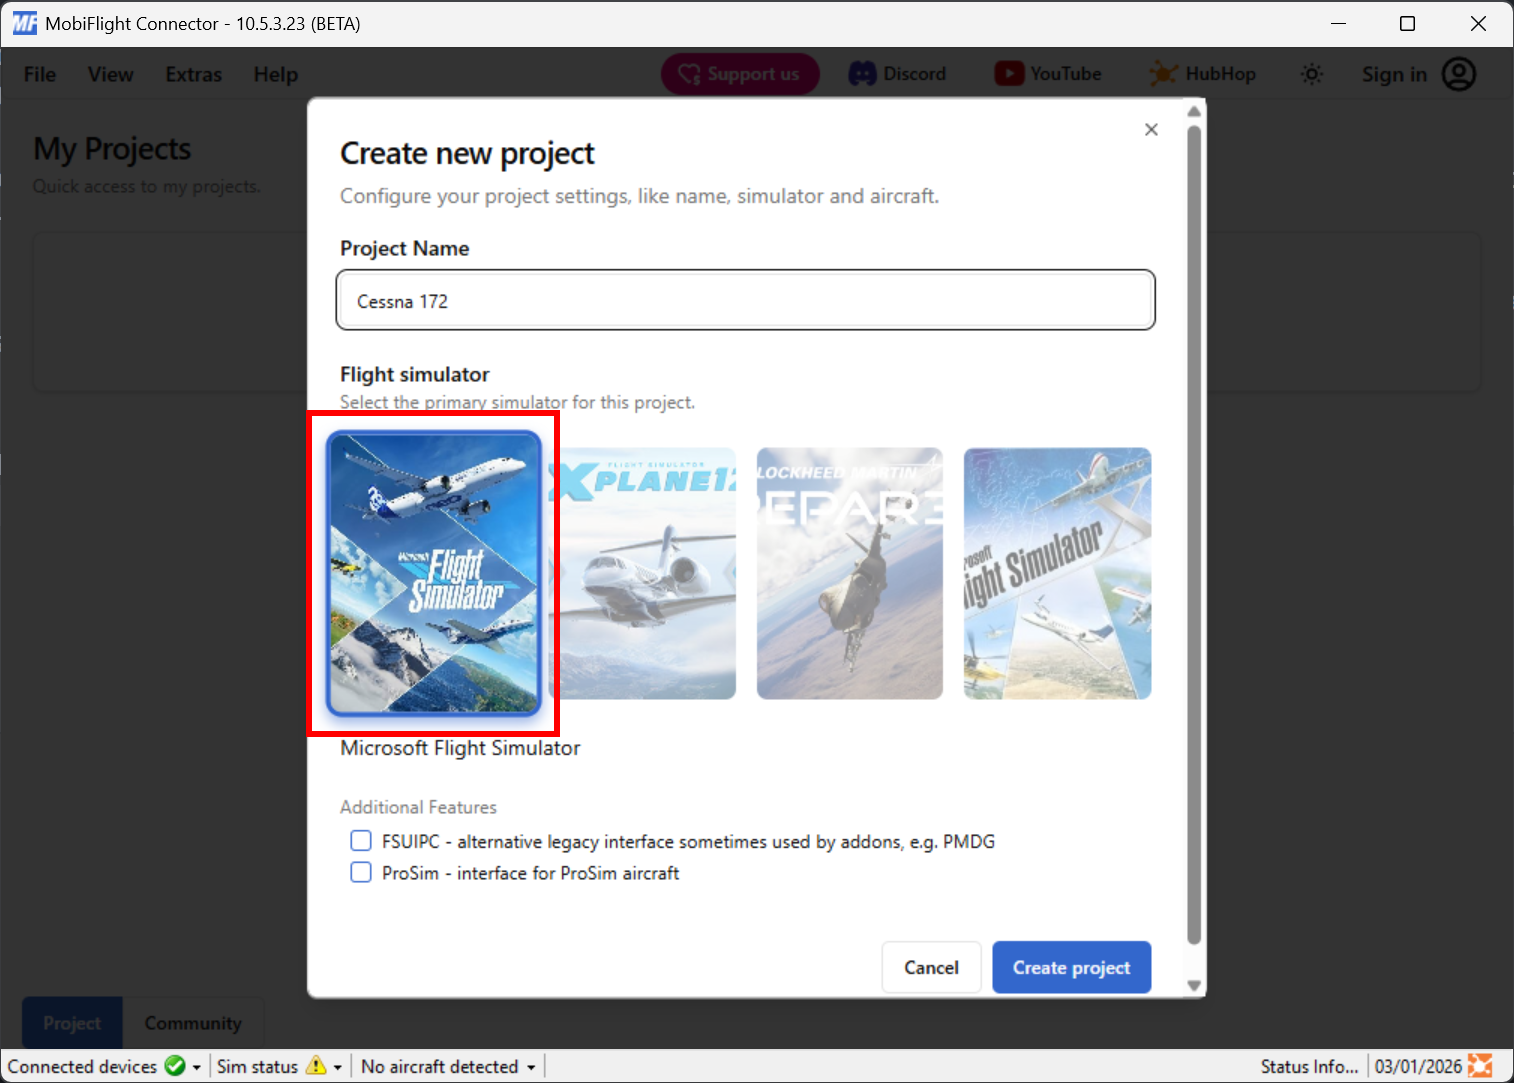
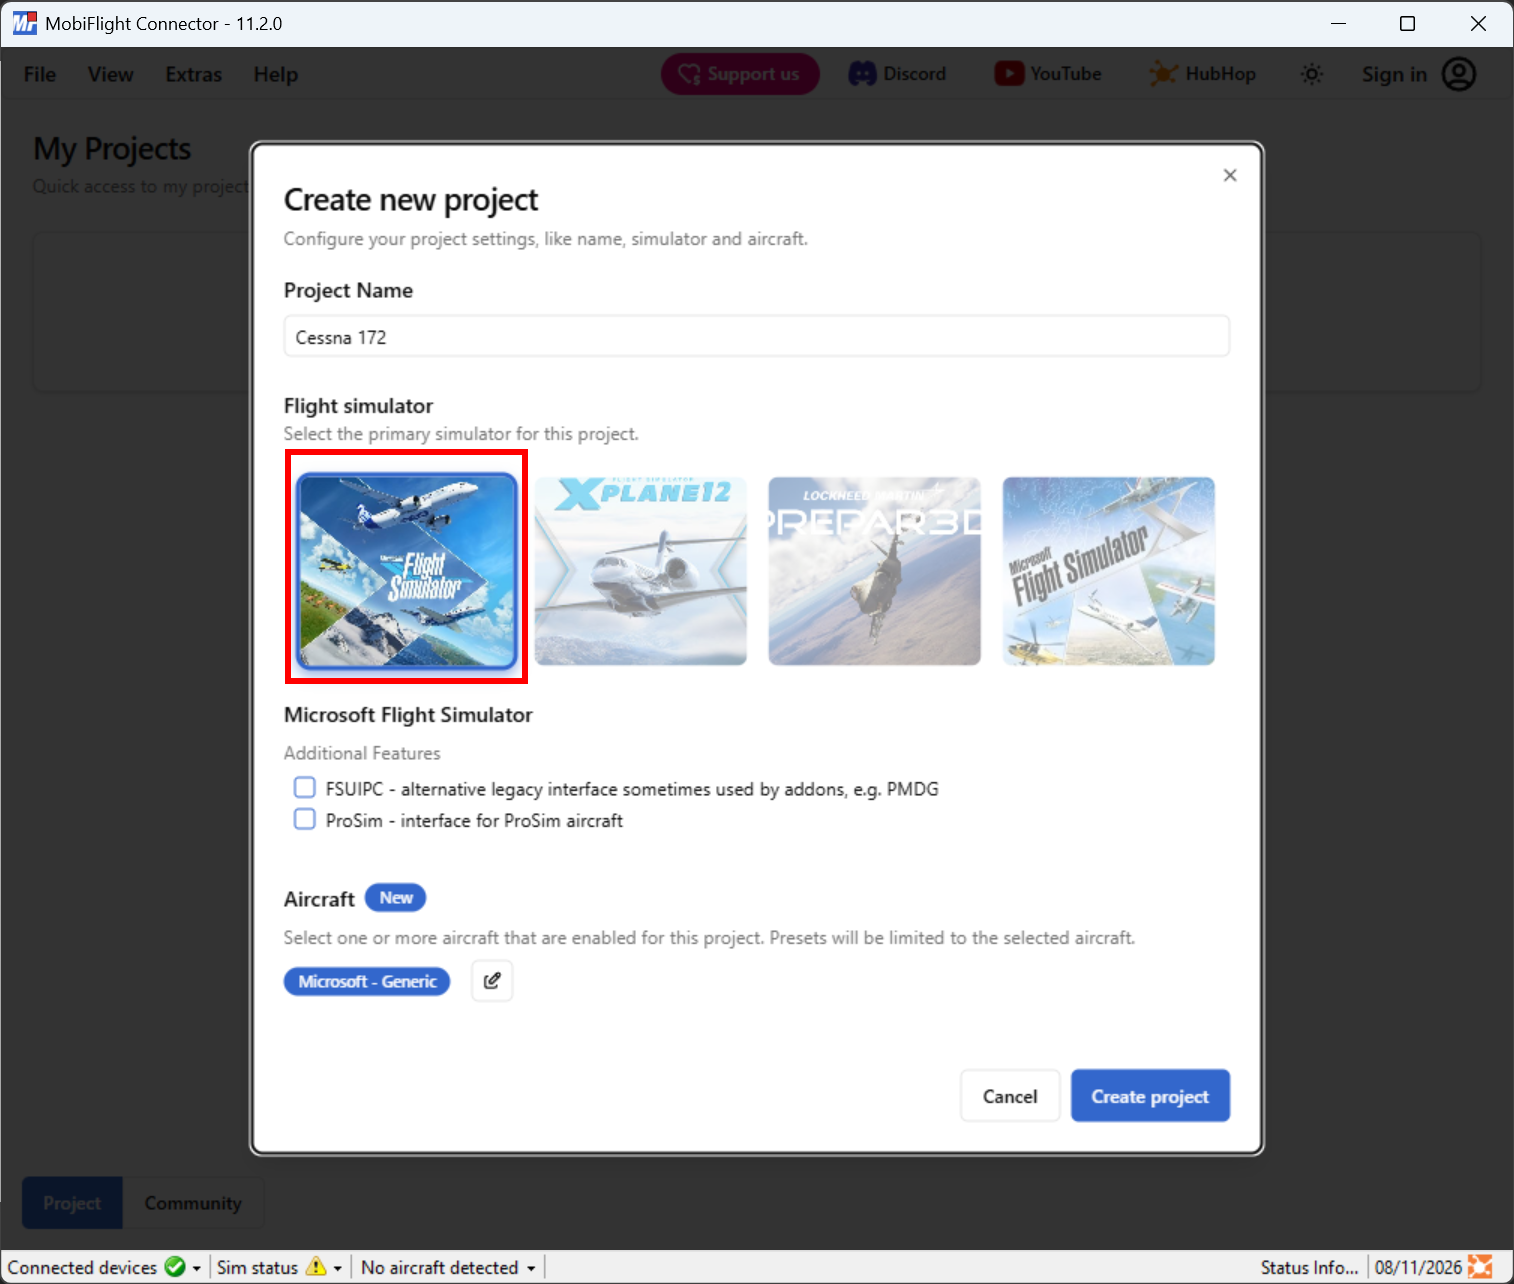
Update project settings docs for new UI (#553)
* Update projects settings with new ui

* Project new UI

diff --git a/content/features/projects/index.md b/content/features/projects/index.md
@@ -30,6 +30,20 @@ Optionally, enable additional features. For Microsoft Flight Simulator projects 
 > [!TIP]
 > The FSUIPC option is only required for profiles targeting PMDG aircraft.
 
+### Specify the aircraft type
+
+MobiFlight filters the available simulator events in input and output configs by the aircraft specified in the project. By default only `Microsoft Generic` events are displayed. To add additional aircraft to the event list click the edit button.
+
+{{< screenshot image="edit-aircraft.png" title="Screenshot of the new project dialog with aircraft edit button highlighted." >}}
+
+Then, use the aircraft pane to filter for the aircraft.
+
+{{< screenshot image="filter-aircraft.png" title="Screenshot of the aircraft pane with the list filtered by Cessna 172." >}}
+
+Finally, select the appropriate aircraft then click **Go Back**.
+
+{{< screenshot image="select-aircraft.png" title="Screenshot of the aircraft pane with Cessna 172 selected." >}}
+
 ### Create the project
 
 Click the **Create project** button to create the project and open the project editor.
@@ -52,7 +66,7 @@ Give the project file a name in a meaningful location, such as a **MobiFlight Pr
 
 {{% steps %}}
 
-### Open the profile in MobiFlight
+### Open the project in MobiFlight
 
 In MobiFlight, go to the **File** menu and select **Open...**.
 
@@ -106,3 +120,22 @@ To remove a project from the recent projects list, click the trash can icon.
 
 > [!TIP]
 > This only removes the project from the recent projects list. It does not delete the project from your computer.
+
+## Editing project settings
+
+To edit the settings on an existing project, for example to change the aircraft in the project, click the **...** menu next to the project name and select **Settings**.
+
+{{< screenshot image="project-settings-menu.png" title="Screenshot of the MobiFlight main window with the project menu opened and the Settings item highlighted." >}}
+
+## Renaming a project
+
+To rename a project, click the **...** menu next to the project name and select **Rename**.
+
+{{< screenshot image="project-rename-menu.png" title="Screenshot of the MobiFlight main window with the project menu opened and the Rename item highlighted." >}}
+
+Then, type a new project name and press **Enter** to apply the change.
+
+{{< screenshot image="renamed-project.png" title="Screenshot of the MobiFlight main window with the project name edited to Cessna 172 (2024)." >}}
+
+> [!IMPORTANT]
+> Renaming a project only changes the name of the project shown in the MobiFlight tab. It does not change the filename of the `.mfproj` file saved on your computer.

diff --git a/content/guides/wasm-module/wasm-manual-install/_index.md b/content/guides/wasm-module/wasm-manual-install/_index.md
@@ -78,7 +78,7 @@ A File Explorer window will open to the community folder location.
 
 ### Open the MobiFlight install folder
 
-MobiFlight is installed in the `%localappdata%\MobiFlight\MobiFlight Connector\MSFS2020-module` folder. Open that location using File Explorer.
+MobiFlight is installed in the `%localappdata%\MobiFlight\MobiFlight Connector` folder. Open that location using File Explorer.
 
 The same WASM module is used for both versions of Microsoft Flight Simulator even though the folder is named `MSFS2020-module`.
 
